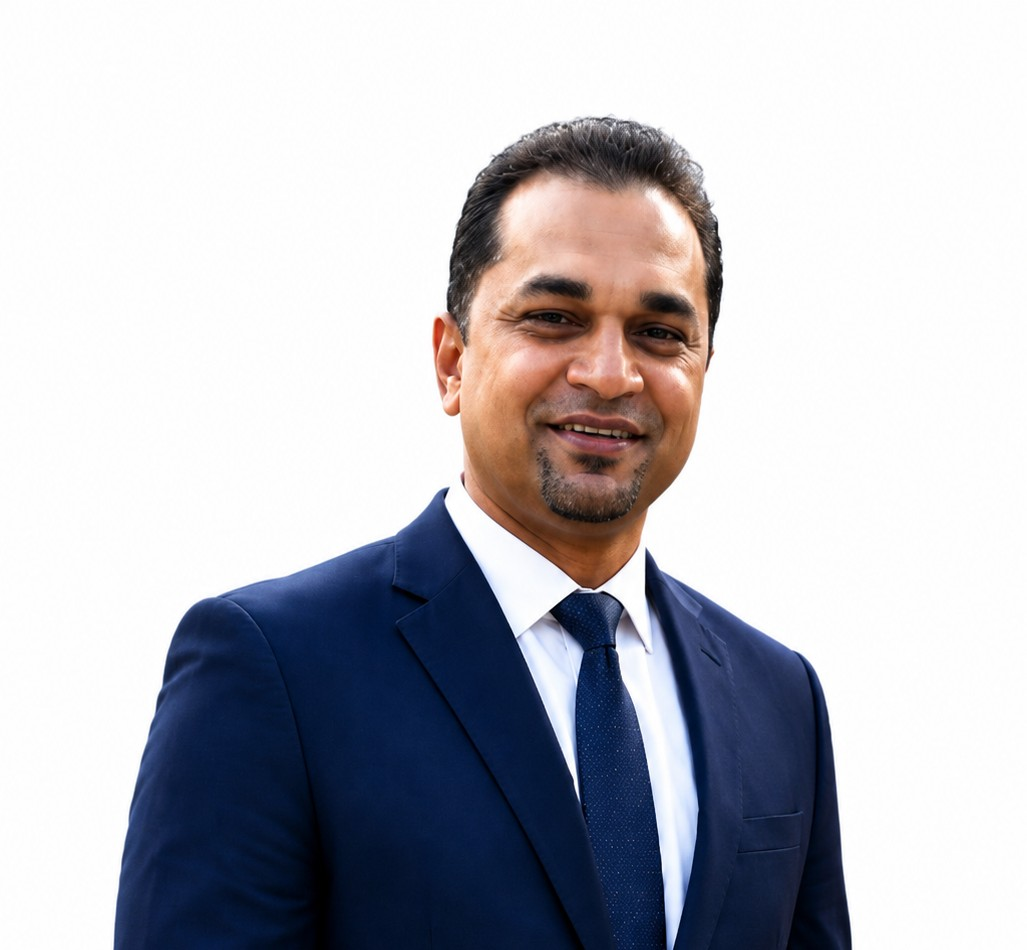
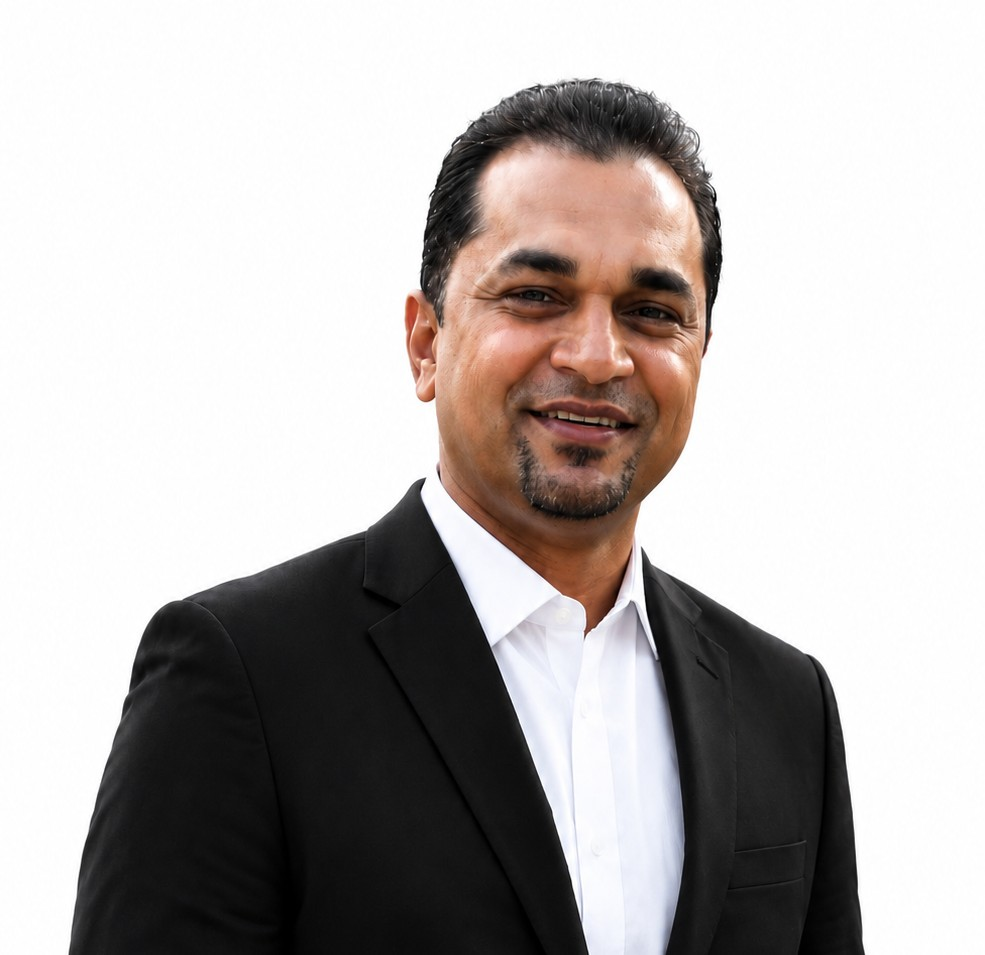
change path

diff --git a/client/src/pages/AboutUs.jsx b/client/src/pages/AboutUs.jsx
@@ -13,13 +13,13 @@ import yasmiImg from '../assets/yasmi.jpg';
 const AboutUs = () => {
   const topTeam = [
     {
-      name: "hjd djd",
-      role: "Business Director",
+      name: "Amin Sardar",
+      role: "Business Development Manager",
       image: businessImg,
       bio: "Driving global strategy and sustainable growth while upholding luxury standards."
     },
     {
-      name: "Chalana Deon",
+      name: "Chalana Diyon",
       role: "Sales Manager",
       image: weligamaImg,
       bio: "Crafting bespoke travel packages and ensuring seamless client satisfaction."
